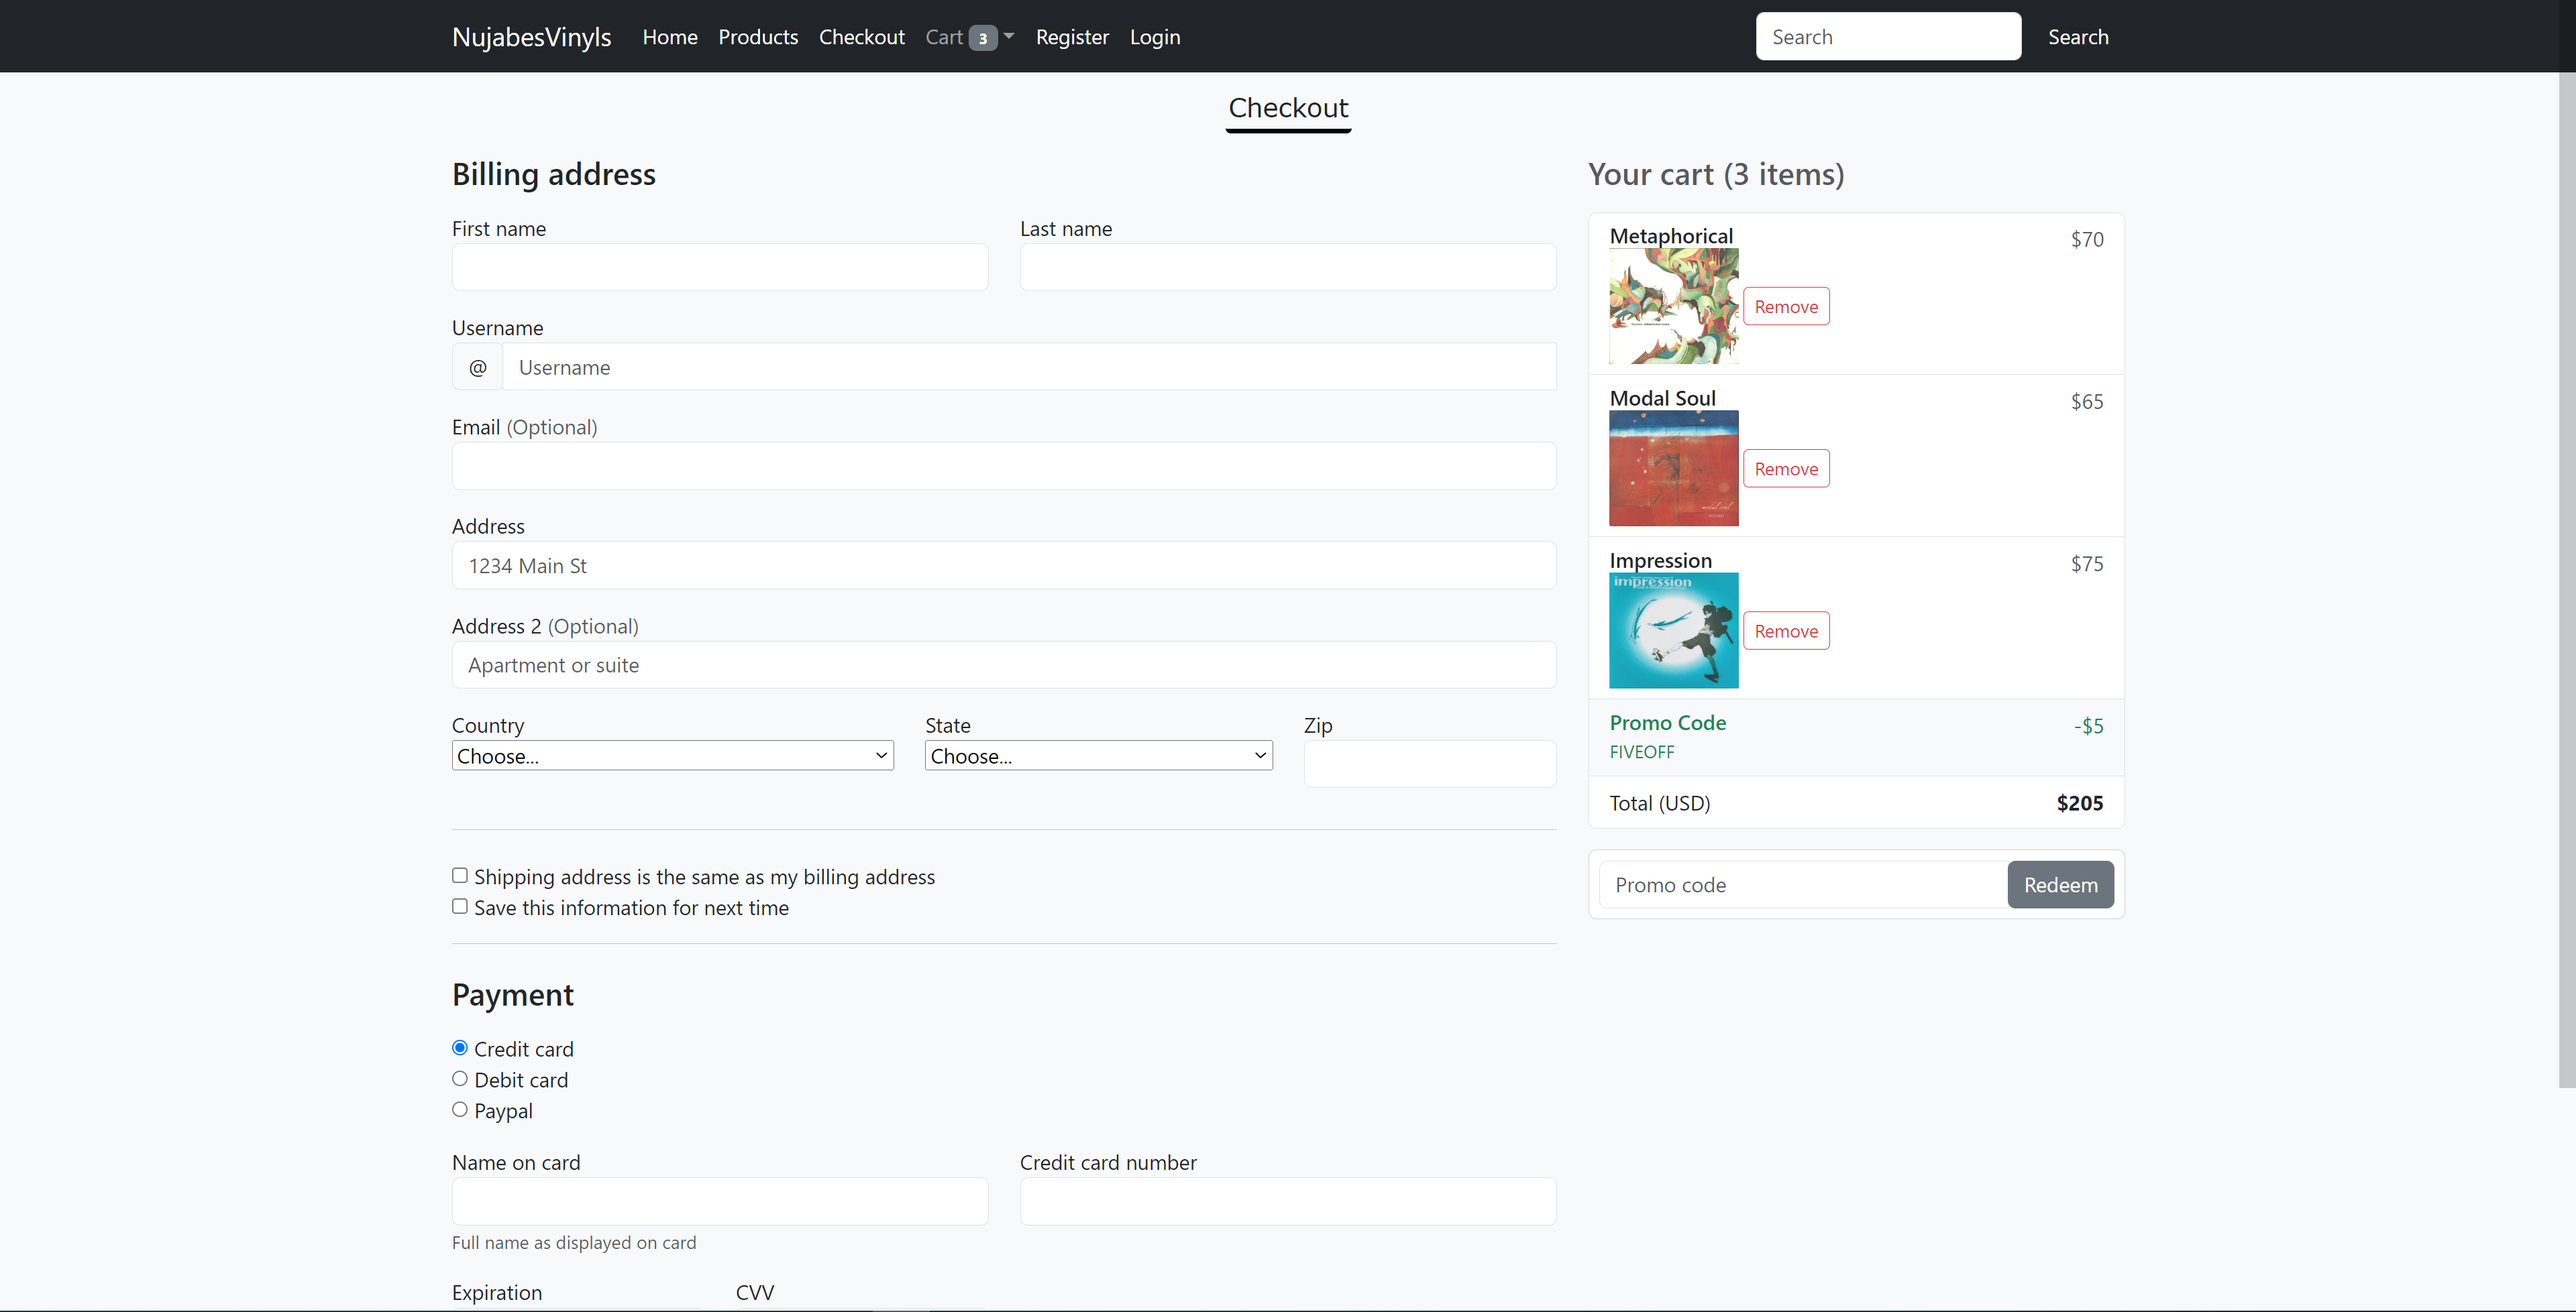
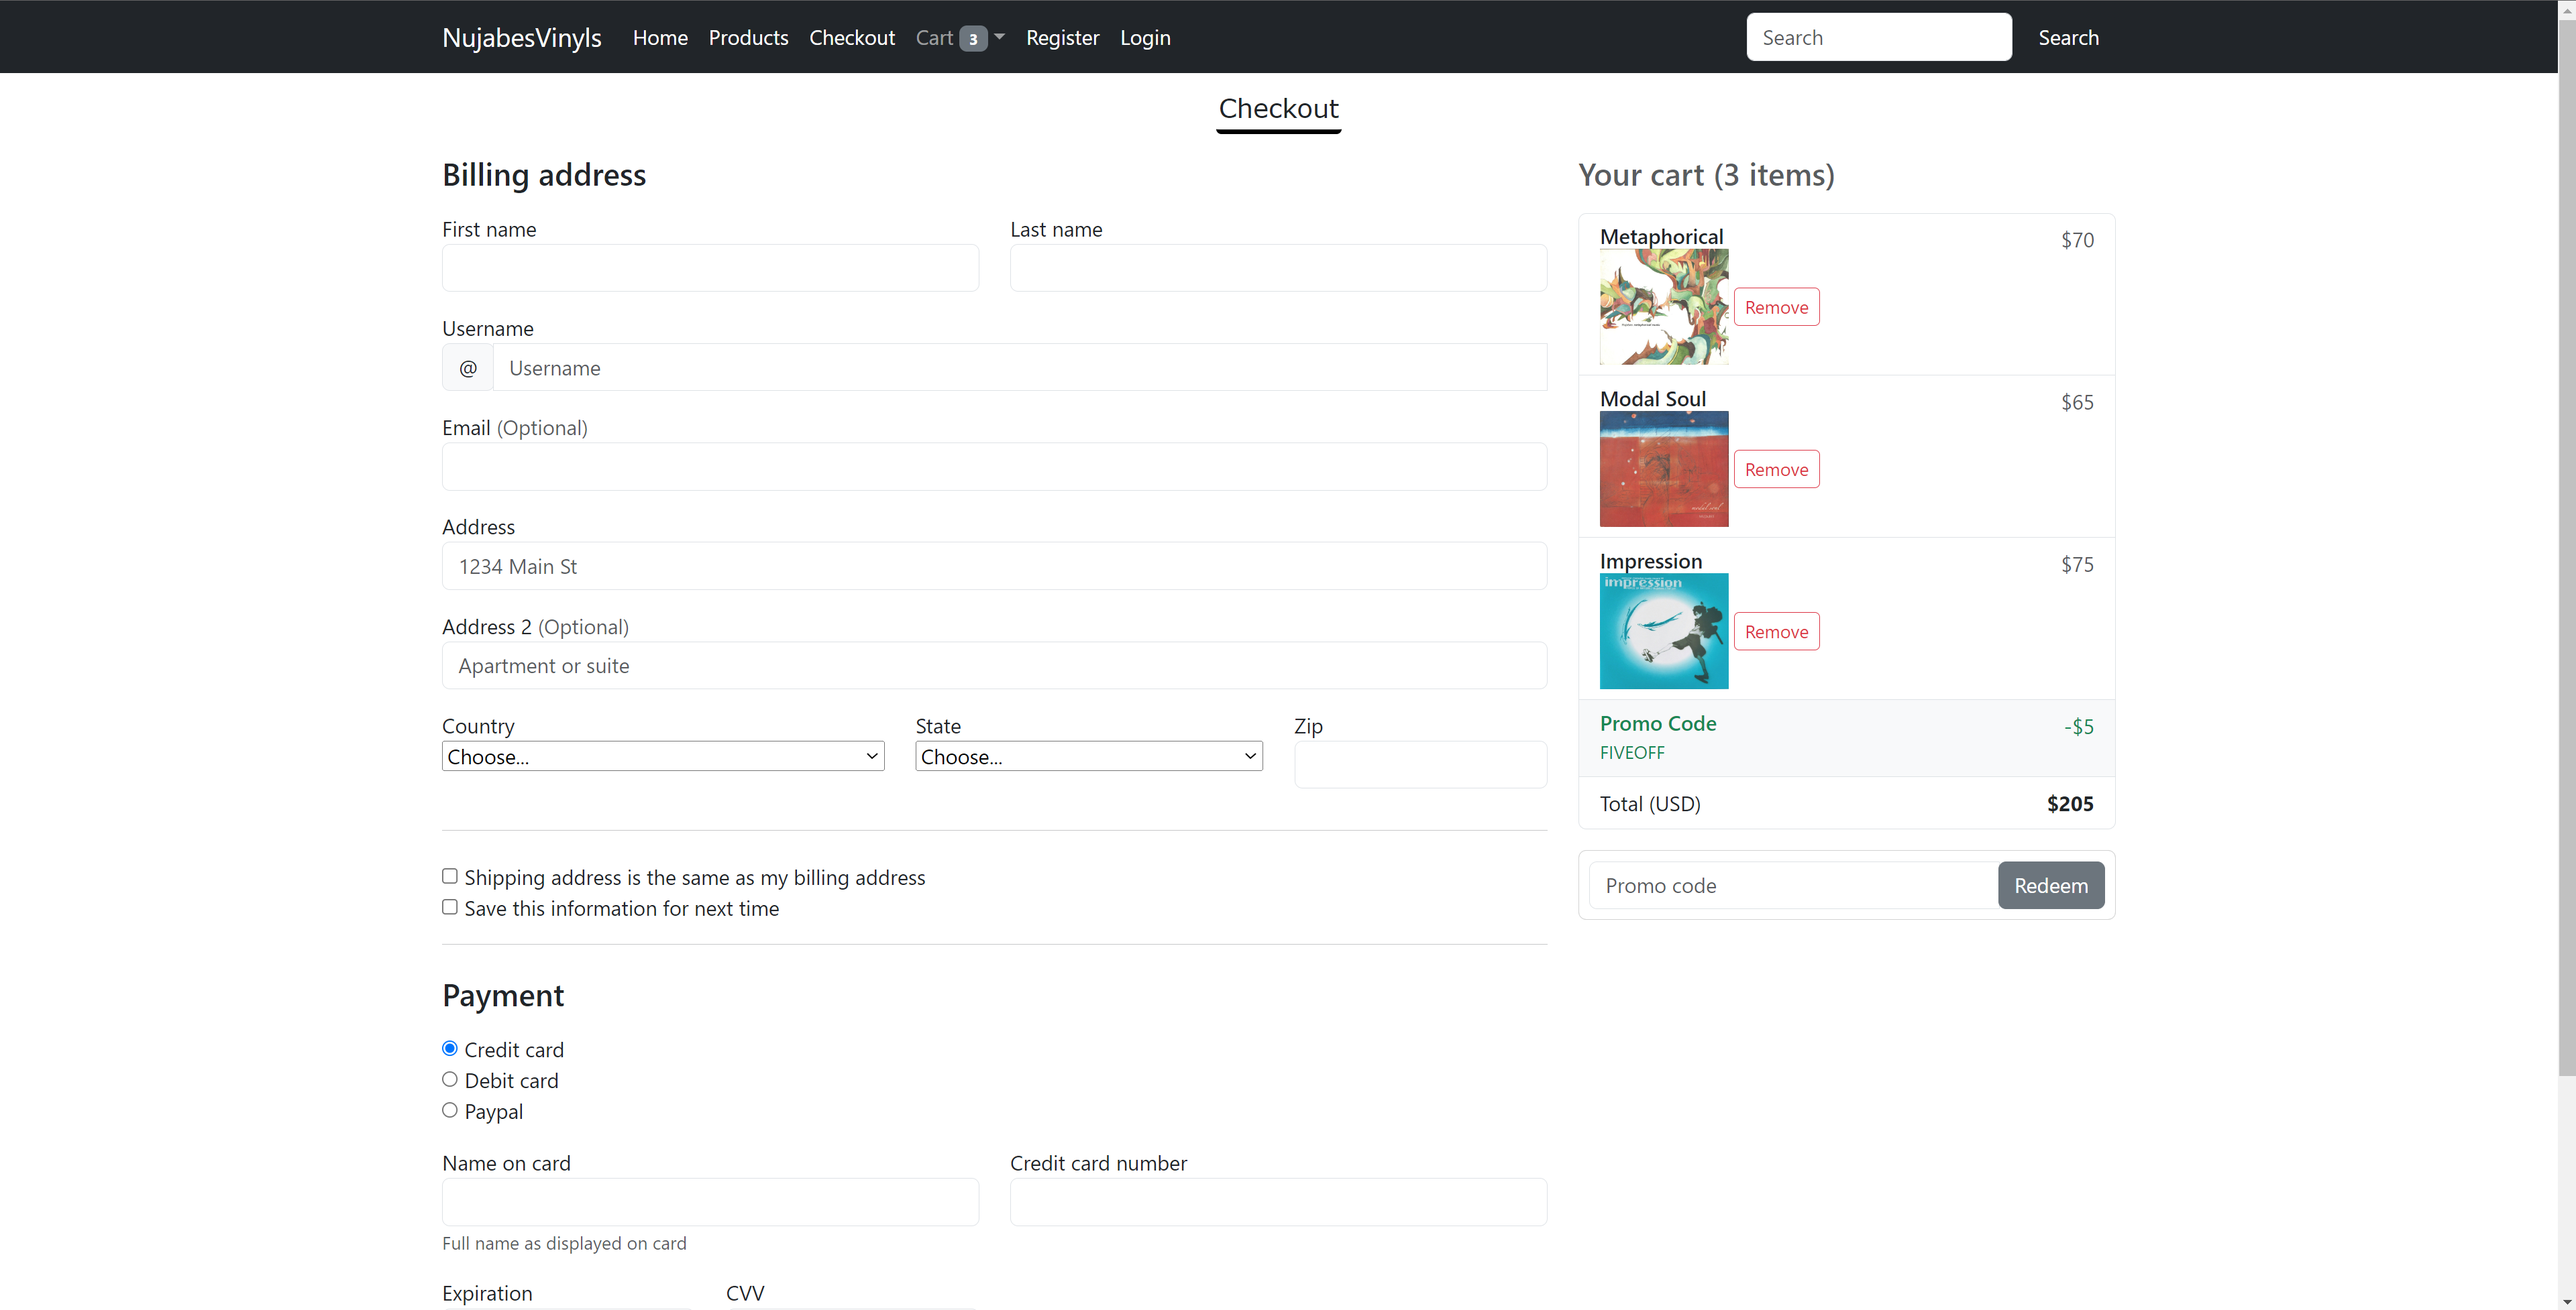
Checkout Background

diff --git a/checkout.html b/checkout.html
@@ -20,7 +20,7 @@
   </head>
 
 <!-- NAVIGATION -->
-  <body class="bg-light">
+  <body class="bg-white">
     <header>
       <nav class="navbar navbar-expand-lg navbar-dark bg-dark">
             <div class="container">
